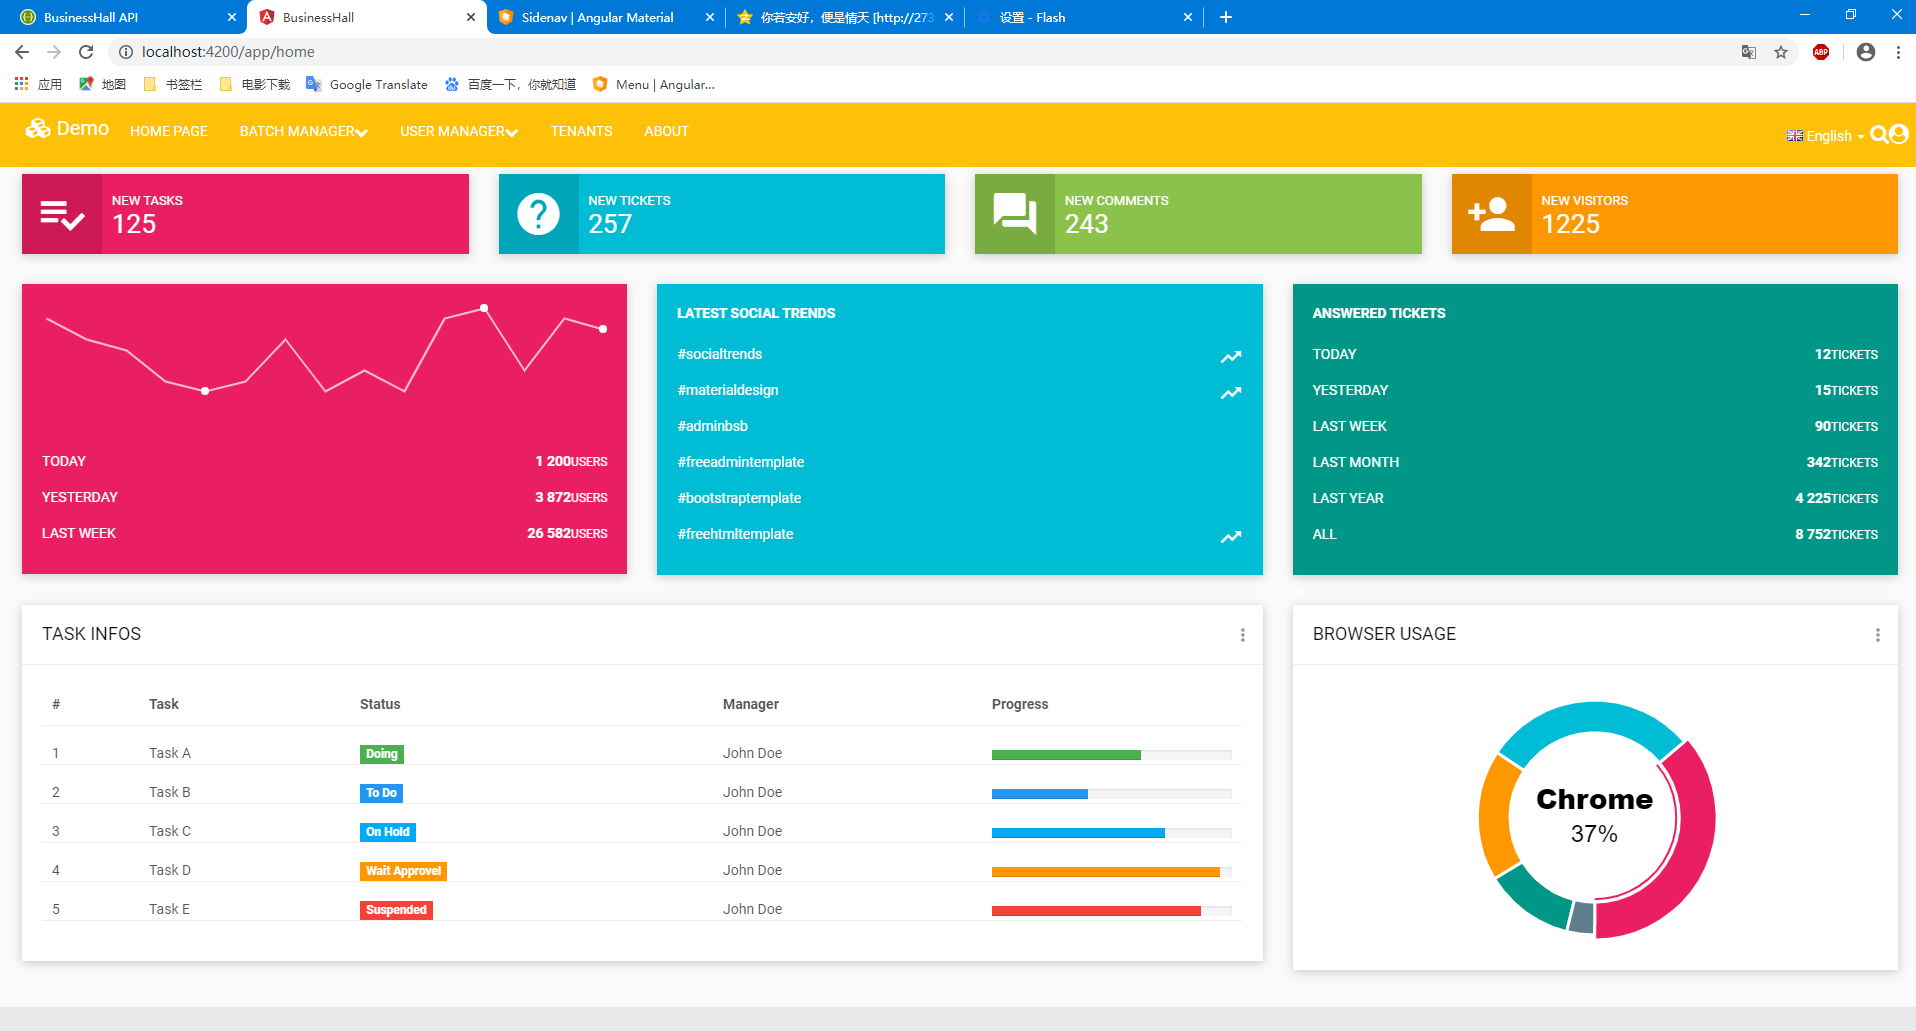
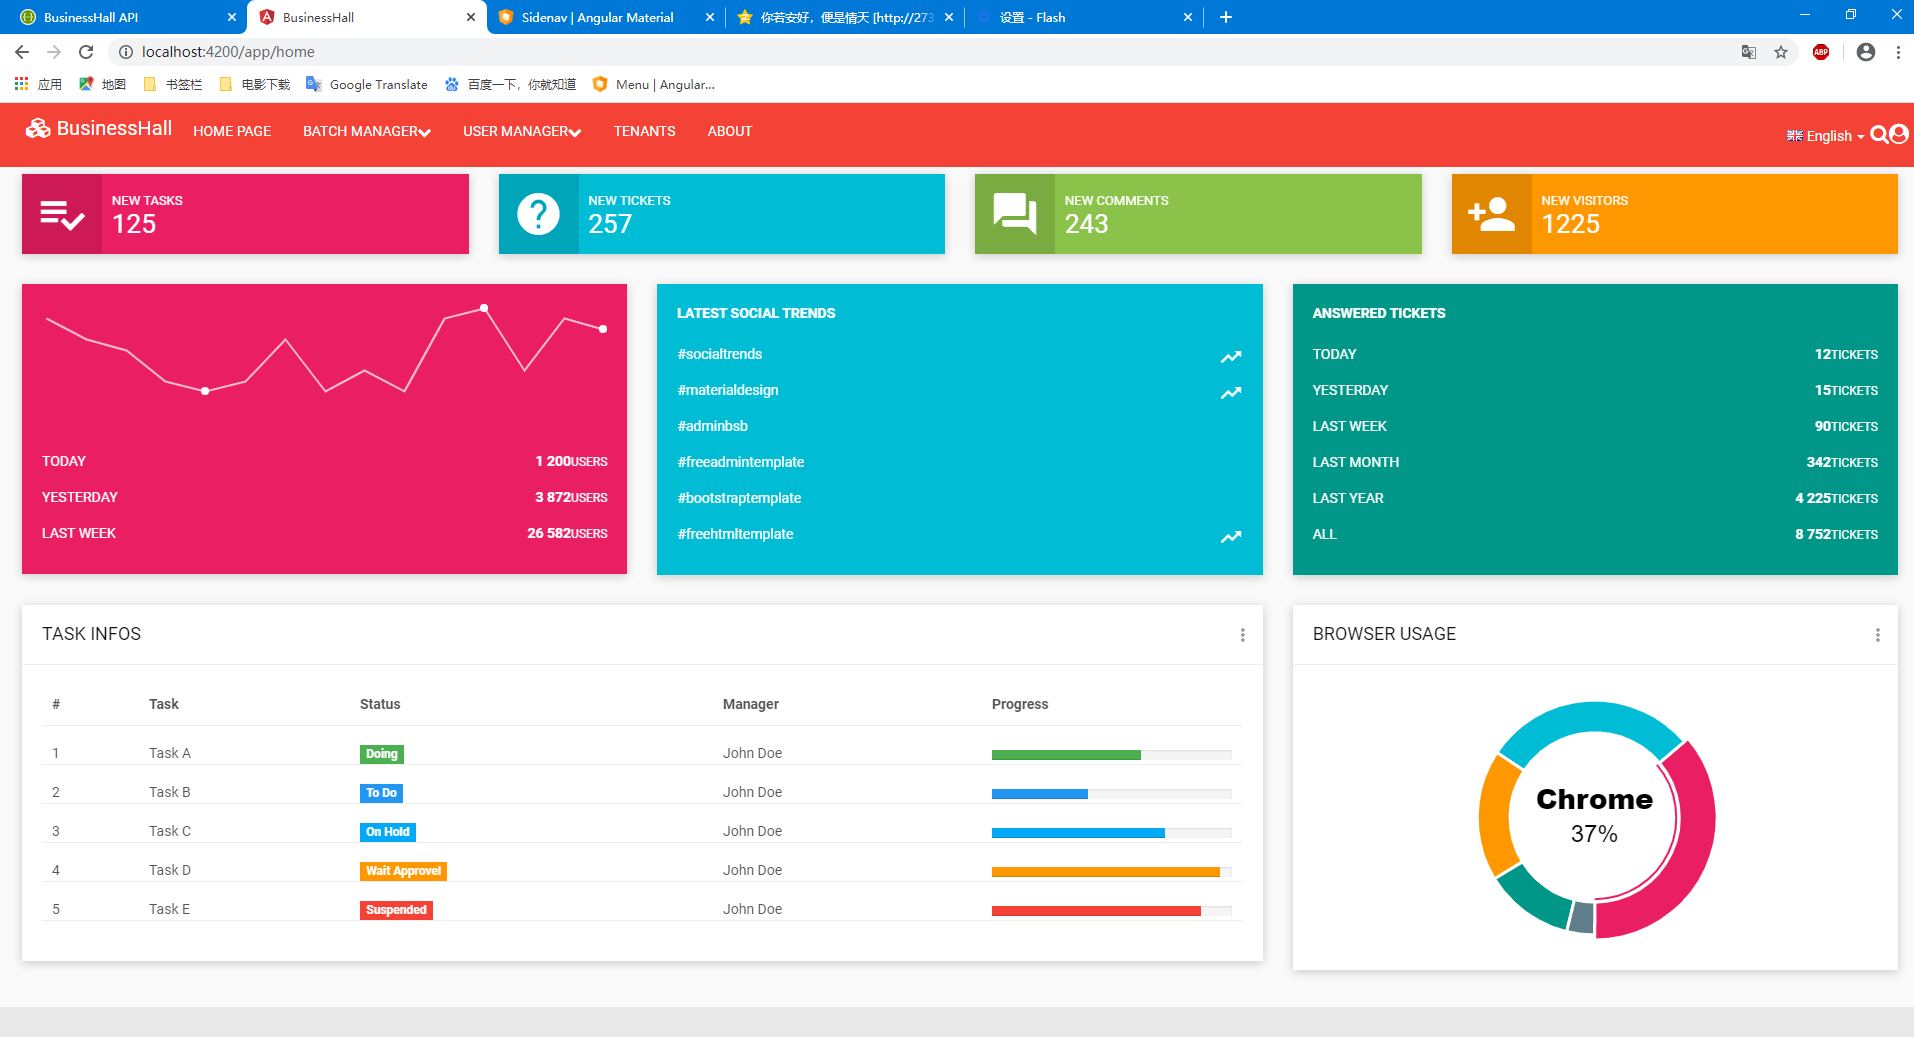
Change picture

diff --git a/src/BusinessHall.Web.Host/src/app/app.component.html b/src/BusinessHall.Web.Host/src/app/app.component.html
@@ -19,7 +19,7 @@
 <mat-toolbar>
     <mat-toolbar-row class="topbarClass">
         <div class="ui-g-12" [hidden]="isShowGlobalSearchText">
-            <a routerLink="/app/home" class="navbar-brand"><i class="fa fa-cubes"></i> Demo</a>
+            <a routerLink="/app/home" class="navbar-brand"><i class="fa fa-cubes"></i> BusinessHall</a>
             <app-page-menu class="wrapper-nav-main" *ngIf="!isLittleScreen" [abpMenuItems]="abpMenuItems"
                 [menuItems]="menuItems" [rootMenuItems]="rootMenuItems">
             </app-page-menu>
